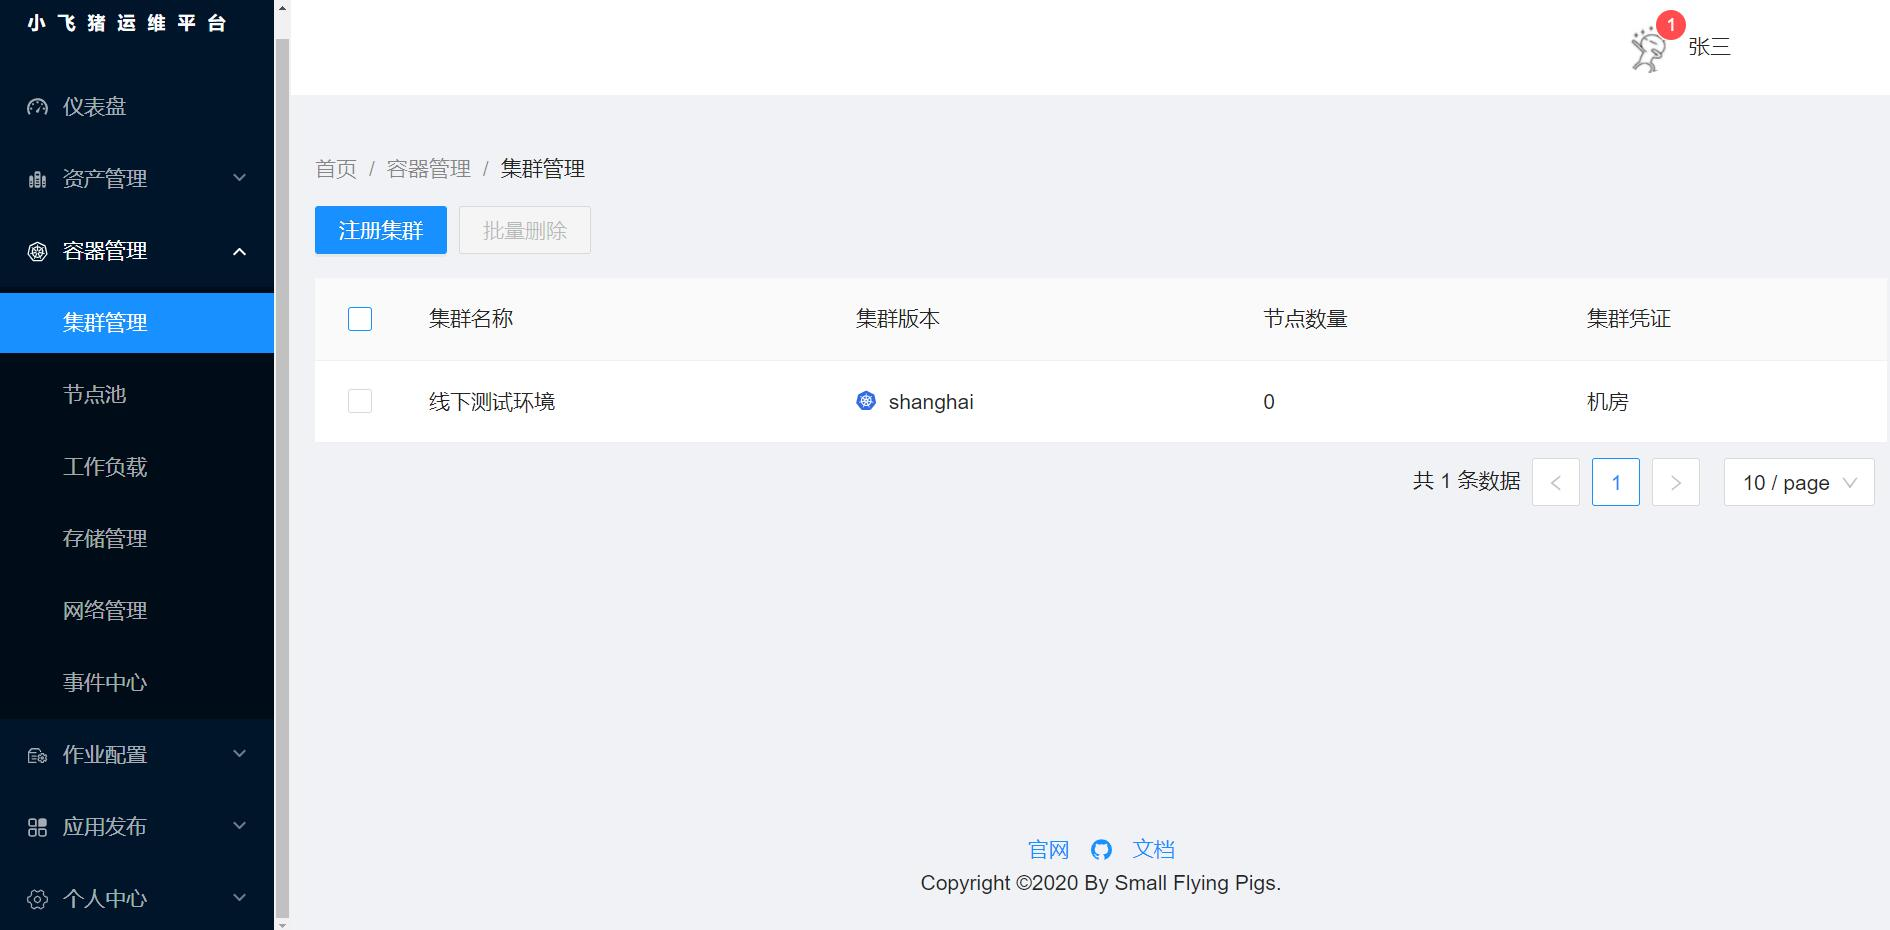
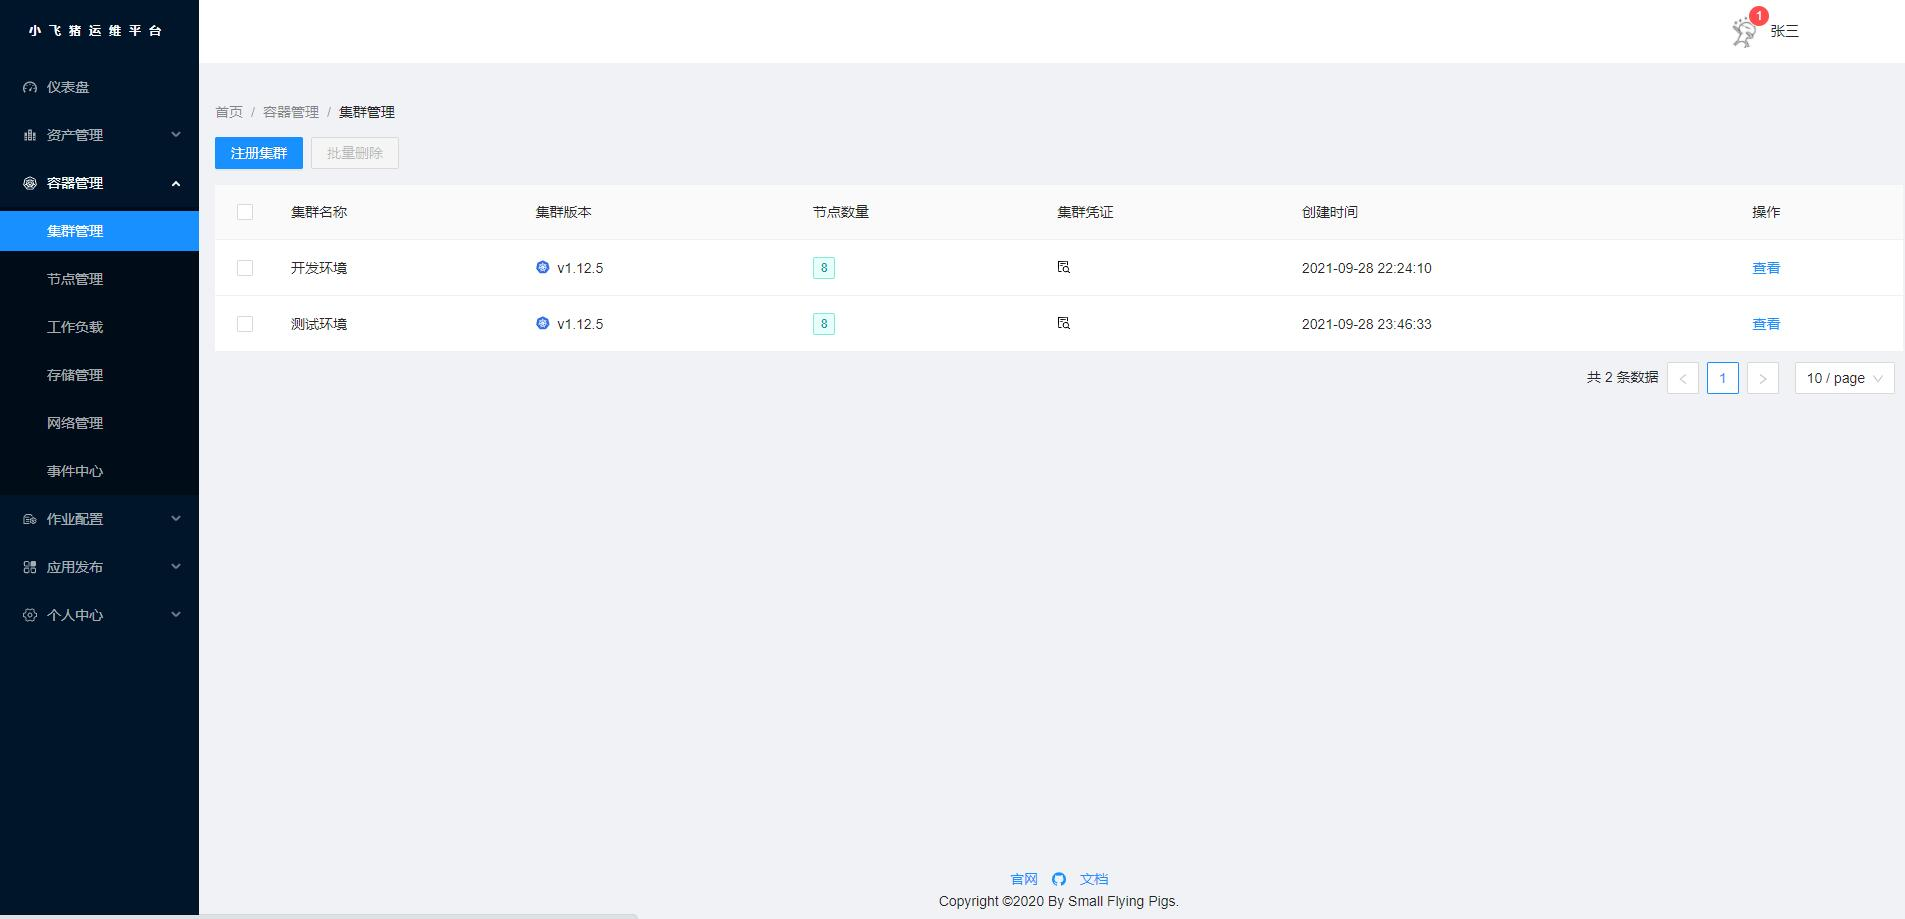
docs: k8s cluster details

diff --git a/pigs_fe/src/Layout.vue b/pigs_fe/src/Layout.vue
@@ -35,7 +35,7 @@
           </a-menu-item>
           <a-menu-item key="32">
             <router-link :to="{path: '/k8s/cluster'}">
-              节点池
+              节点管理
             </router-link>
           </a-menu-item>
           <a-menu-item key="33">

diff --git a/README.md b/README.md
@@ -52,6 +52,9 @@ mysql:
 ## 集群管理
 ![avatar](./docs/img/集群管理.jpg)
 
+## 集群详情
+![avatar](./docs/img/集群详情.png)
+
 ## Features
 
 * 用户注册登录
